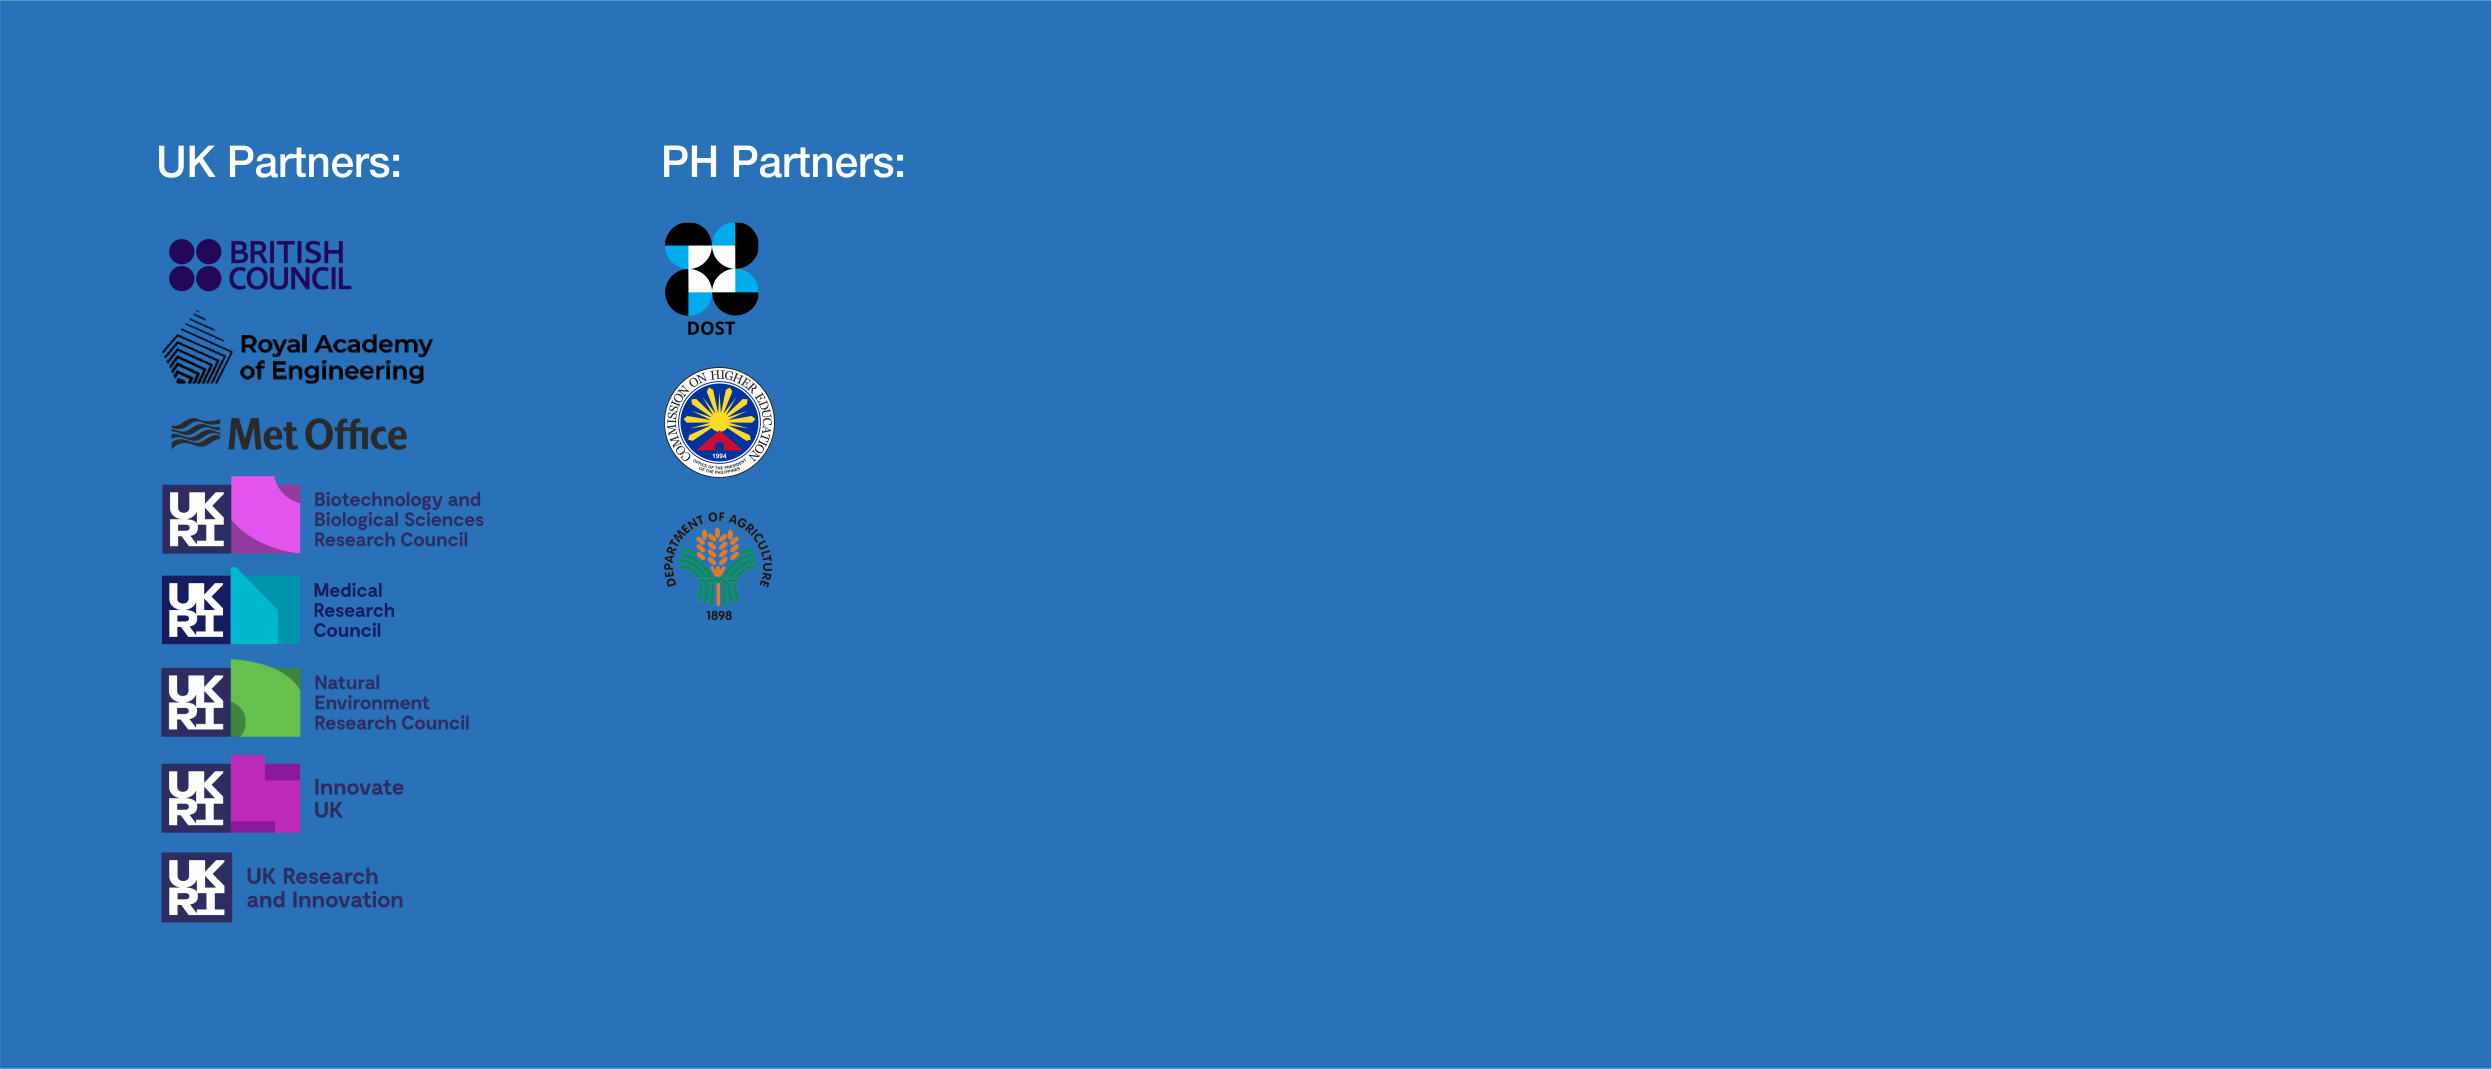
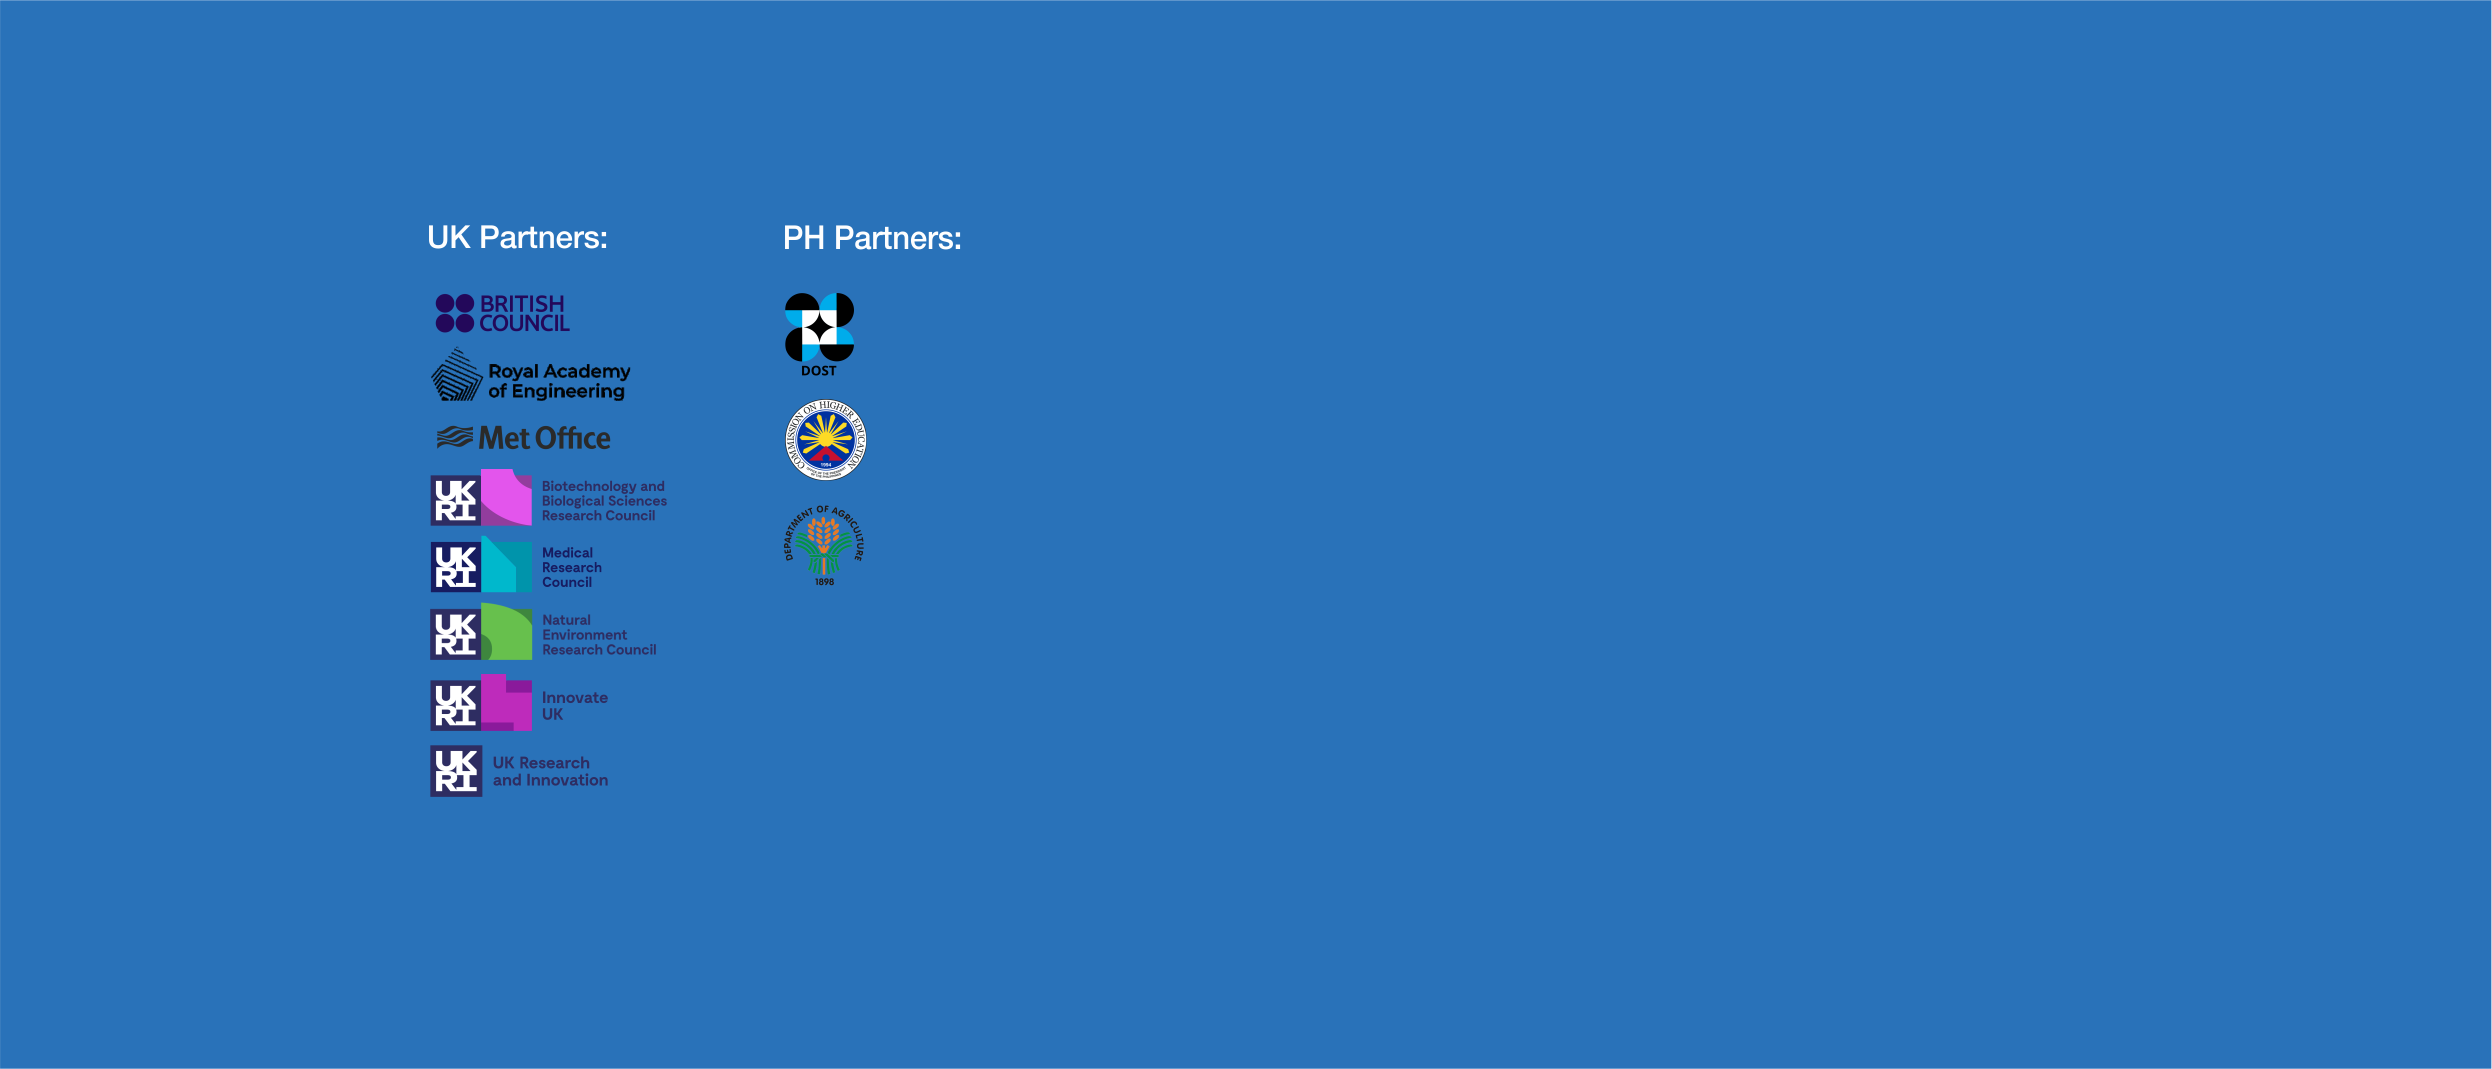
footer

Changed region(s): [[0.0618, 0.1235, 0.4017, 0.8644], [0.0618, 0.1235, 0.1545, 0.1852]]

diff --git a/newtonagham/src/components/Footer.js b/newtonagham/src/components/Footer.js
@@ -1,9 +1,25 @@
 import * as React from 'react';
 import { Grid, Paper, Typography } from '@mui/material';
+import TwitterIcon from '@mui/icons-material/Twitter';
 
 import { makeStyles } from '@mui/styles';
 import banner from '../assets/images/banner1.png';
 import footerImage from '../assets/images/footer.png';
+
+
+import britishCouncil from '../assets/images/logos/uk/British_Council.png';
+import bbsrc from '../assets/images/logos/uk/BBSRC.png';
+import innovateUk from '../assets/images/logos/uk/Innovate UK.png';
+import metOffice from '../assets/images/logos/uk/metOffice.png';
+import mrc from '../assets/images/logos/uk/MRC.png';
+import nerc from '../assets/images/logos/uk/NERC.png';
+import raeng from '../assets/images/logos/uk/RAEng.png';
+import ukri from '../assets/images/logos/uk/UKRI-Logo_Horiz-RGB.png';
+
+import ched from '../assets/images/logos/ph/CHED.png';
+import da from '../assets/images/logos/ph/DA.png';
+import dost from '../assets/images/logos/ph/DOST.png';
+
 
 const useStyles = makeStyles((theme) => ({
     root: {
@@ -19,6 +35,10 @@ const useStyles = makeStyles((theme) => ({
         height: '20vh',
         backgroundColor: '#266ebc'
       },
+    whiteFont:{
+        color: '#fff',
+        // paddingBottom: 5,
+    }
   }));
 
 
@@ -28,9 +48,163 @@ const useStyles = makeStyles((theme) => ({
         <React.Fragment>
             {/* <Grid container className={classes.banner}> */}
             {/* <div className={classes.banner}> */}
-            <img src={footerImage} alt="footer_image" style={{width: '100%', height: '65vh', objectFit: 'cover'}} />
+            {/* <img src={footerImage} alt="footer_image" style={{width: '100%', height:'57vh', objectFit: 'cover'}} /> */}
             {/* </div> */}
                 
+            {/* </Grid> */}
+
+            {/* <Grid style={{backgroundImage: `url(${footerImage})`, width: '100%', height:'60vh', objectFit: 'cover'}}> */}
+            
+            {/* <Grid style={{backgroundColor: '#266ebc', width: '100', objectFit: 'cover'}}> */}
+
+            <Grid container
+              direction="row"
+              justifyContent="center"
+              alignItems="center" style={{backgroundColor: '#266ebc', width: '100', height: 450, objectFit: 'cover'}}>
+
+              {/* UK GRID */}
+              <Grid container spacing={0}
+              direction="row"
+              justifyContent="flex-end"
+              alignItems="flex-start" xs={4} md={4} lg={4}>
+
+                {/* UK Partners */}
+                <Grid container direction="row" justifyContent="center" alignItems="flex-start">
+                  <Grid item>
+                    <Typography variant="h5" className={classes.whiteFont}>
+                        UK Partners:
+                    </Typography>
+                  </Grid>
+                </Grid>
+
+                {/* UK LOGOS */}
+                <Grid container direction="row" justifyContent="center" alignItems="center">
+                  <Grid item xs={6} md={6} lg={6}>
+                    <img src={britishCouncil} alt="britishCouncil" style={{width: 200, height:'40%', objectFit: 'cover'}} />
+                  </Grid>
+                  <Grid item xs={6} md={6} lg={6}>
+                    <img src={raeng} alt="raeng" style={{width: 200, height:'40%', objectFit: 'cover'}} />
+                  </Grid>
+                  <Grid item xs={6} md={6} lg={6}>
+                    <img src={metOffice} alt="metOffice" style={{width: 200, height:'30%', objectFit: 'cover'}} />
+                  </Grid>
+                  <Grid xs={6} md={6} lg={6}>
+                    <img src={bbsrc} alt="bbsrc" style={{width: 200, height:'40%', objectFit: 'cover'}} />
+                  </Grid>
+                  <Grid item xs={6} md={6} lg={6}>
+                    <img src={mrc} alt="mrc" style={{width: 200, height:'40%', objectFit: 'cover'}} />
+                  </Grid>
+                  <Grid xs={6} md={6} lg={6}>
+                    <img src={nerc} alt="nerc" style={{width: 200, height:'40%', objectFit: 'cover'}} />
+                  </Grid>
+                  <Grid xs={6} md={6} lg={6}>
+                    <img src={innovateUk} alt="innovateUk" style={{width: 200, height:'40%', objectFit: 'cover'}} />
+                  </Grid>
+                  <Grid xs={6} md={6} lg={6}>
+                    <img src={ukri} alt="ukri" style={{width: 200, height:'40%', objectFit: 'cover'}} />
+                  </Grid>
+                </Grid>
+              </Grid>
+
+              {/* PH GRID */}
+              <Grid container spacing={2}
+              direction="column"
+              justifyContent="center"
+              alignItems="center" xs={4} md={4} lg={4}>
+                <Grid item>
+                <Typography variant="h5" className={classes.whiteFont}>
+                   PH Partners:
+                </Typography>
+                </Grid>
+                <Grid item>
+                  <img src={dost} alt="dost" style={{width: 75, height:'20%', objectFit: 'cover'}} />
+                </Grid>
+                <Grid item >
+                  <img src={ched} alt="ched" style={{width: 75, height:'20%', objectFit: 'cover'}} />
+                </Grid>
+                <Grid item >
+                  <img src={da} alt="da" style={{width: 75, height:'20%', objectFit: 'cover'}} />
+                </Grid>
+              </Grid>
+              
+              {/* TEXT GRID */}
+              <Grid container
+              direction="column"
+              justifyContent="center"
+              alignItems="flex-start" xs={3} md={3} lg={3}>
+
+                <Grid item xs={12}>
+                <Typography variant="h6" className={classes.whiteFont}>
+                    <a className="nodecorate" href="https://www.newton-gcrf.org/impact/where-we-work/philippines/" 
+                    target="_blank" rel="noreferrer">
+                      About Newton Agham Fund</a>
+                </Typography>
+                </Grid>
+
+                <Grid item xs={12}>
+                <Typography variant="h6" className={classes.whiteFont}>
+                    Connect with us
+                </Typography>
+                </Grid>
+
+                {/* //Twitter logo */}
+                <Grid item xs={12}>
+                <Typography variant="h6" className={classes.whiteFont}>
+                  <a className="nodecorate" href="https://mobile.twitter.com/newtonfund?lang=en" 
+                      target="_blank" rel="noreferrer">
+                  <TwitterIcon /> Twitter
+                  </a>
+                </Typography>
+                </Grid>
+
+
+                <Grid item xs={12} style={{paddingTop: 30}}>
+                <Typography variant="h6" className={classes.whiteFont}>
+                    For inquiries and information:
+                </Typography>
+                </Grid>
+
+                <Grid item xs={12} style={{paddingTop: 20}}>
+                <Typography variant="h6" className={classes.whiteFont}>
+                    Sarah Esguerra
+                </Typography>
+                </Grid>
+                <Grid item xs={12}>
+                <Typography variant="h6" className={classes.whiteFont}>
+                    British Embassy Manila
+                </Typography>
+                </Grid>
+
+                <Grid item xs={12}>
+                <Typography variant="h6" className={classes.whiteFont}>
+                  <a className="nodecorate" href="mailto:sarah.esguerra@fcdo.gov.uk">sarah.esguerra@fcdo.gov.uk</a>
+                </Typography>
+                </Grid>
+
+                <Grid item xs={12} style={{paddingTop: 20}}>
+                <Typography variant="h6" className={classes.whiteFont}>
+                    Danie Son Gonzalvo
+                </Typography>
+                </Grid>
+
+                <Grid item xs={12}>
+                <Typography variant="h6" className={classes.whiteFont}>
+                    <a className="nodecorate" href="https://www.britishcouncil.ph/programmes/education/newton-agham-programme" 
+                      target="_blank" rel="noreferrer">British Council Philippines
+                    </a>
+                </Typography>
+                </Grid>
+
+                <Grid item xs={12}>
+                <Typography variant="h6" className={classes.whiteFont}>
+                <a className="nodecorate" href="mailto:danieson.gonzalvo@britishcouncil.org.ph">danieson.gonzalvo@britishcouncil.org.ph</a>
+                </Typography>
+                </Grid>
+
+            </Grid>
+
+
+            </Grid>
             {/* </Grid> */}
         </React.Fragment>
         

diff --git a/newtonagham/src/index.css b/newtonagham/src/index.css
@@ -24,3 +24,12 @@ code {
 .react-player > div {
   position: absolute;
 }
+
+.nodecorate:active, .nodecorate:link, .nodecorate:visited {
+	text-decoration: none;
+  color: #fff !important;
+}
+
+.nodecorate:hover { 
+  color: lightseagreen !important;
+}
